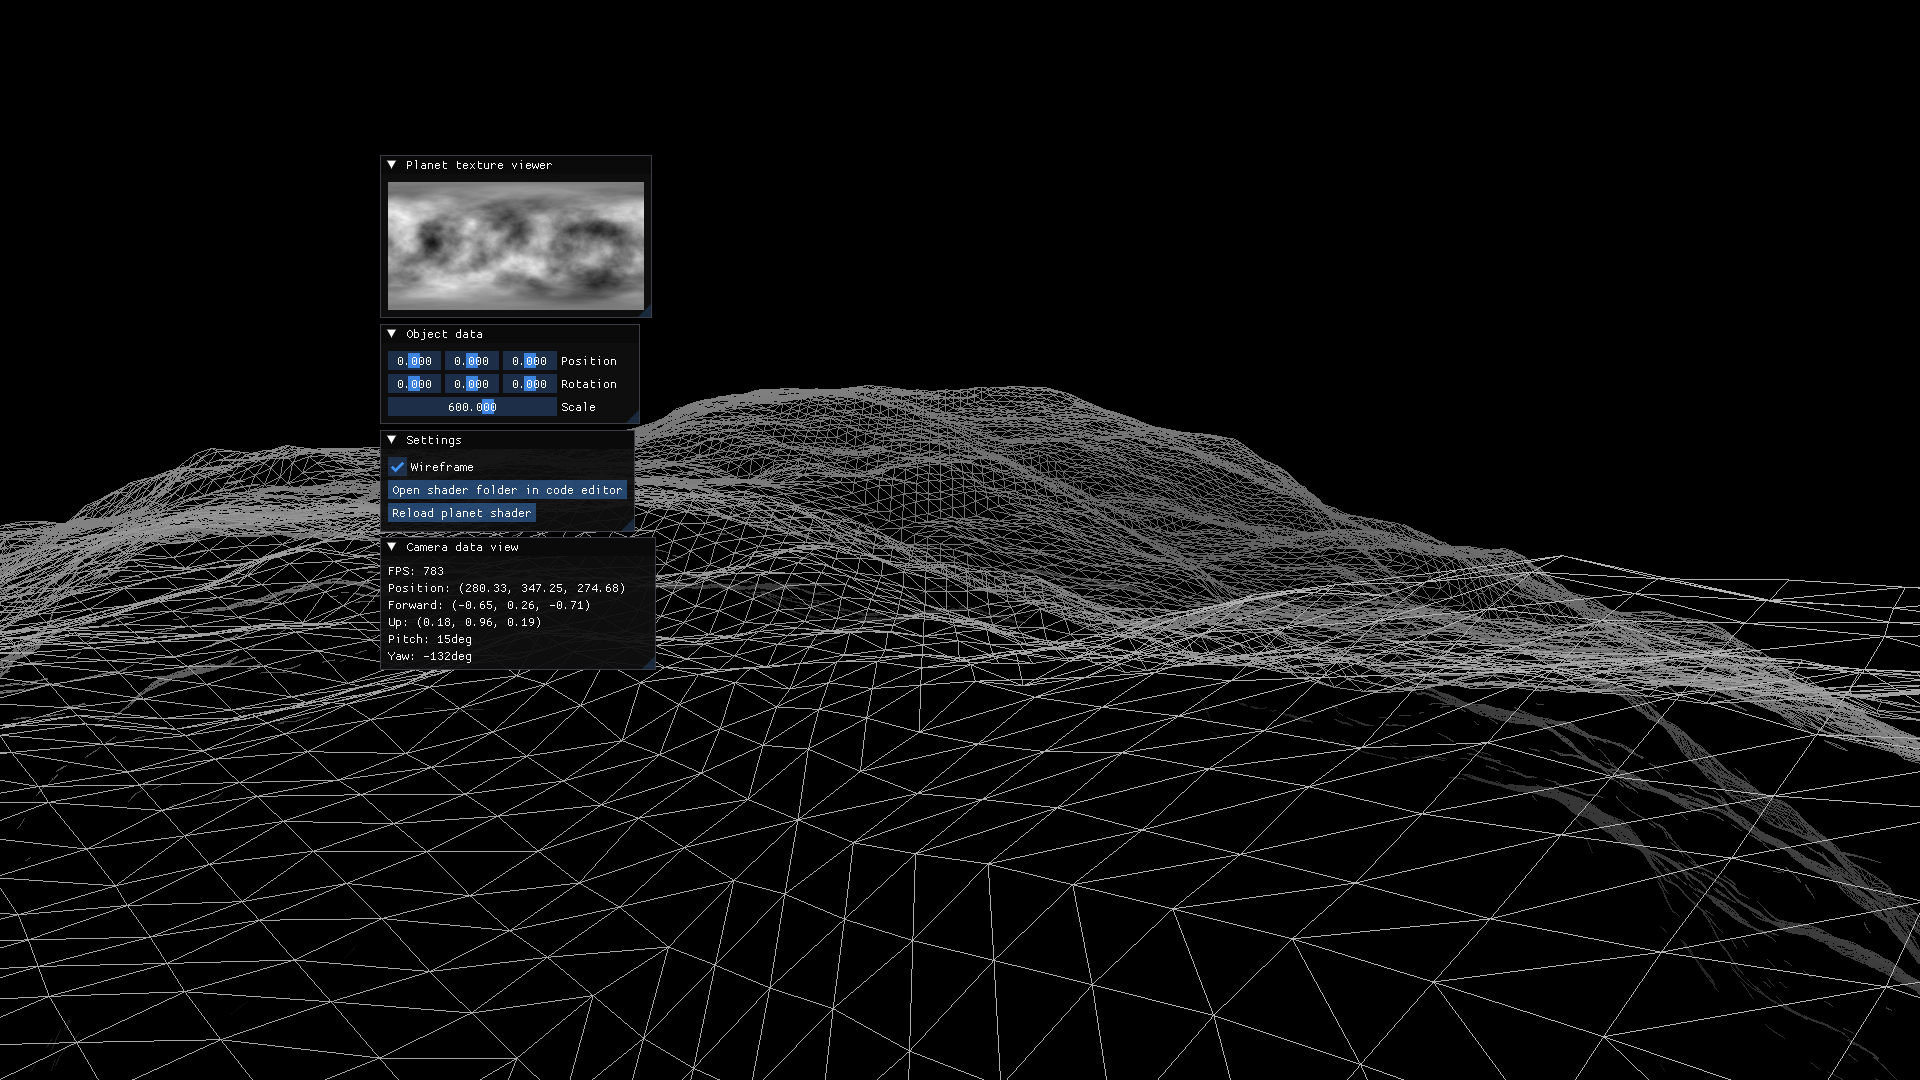
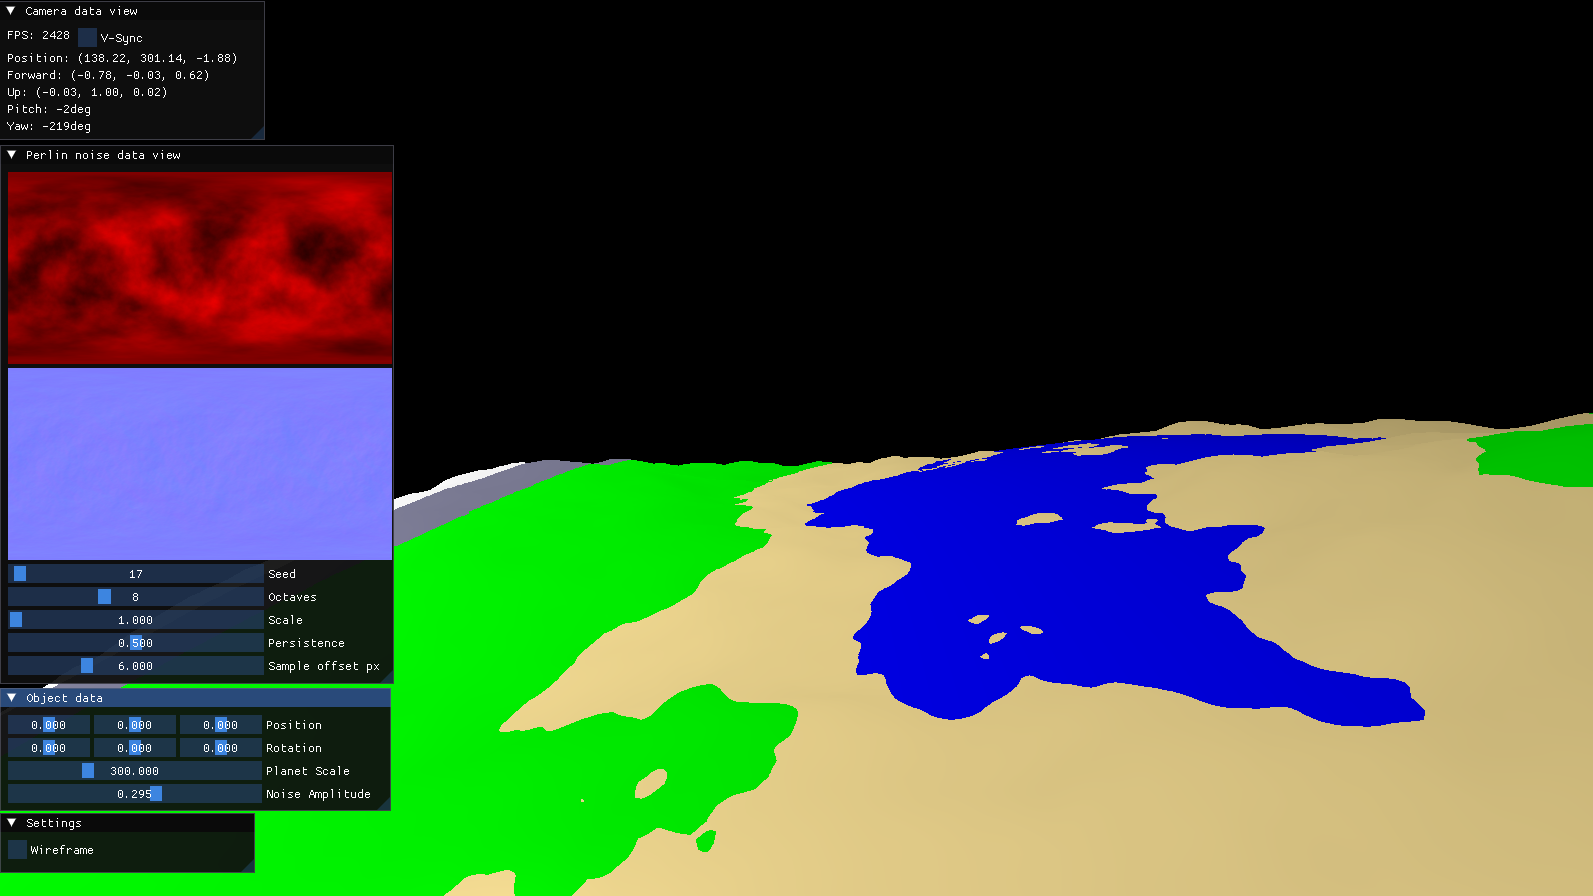
Update readme + correct naming scheme for uniforms

diff --git a/src/noise.cpp b/src/noise.cpp
@@ -1,39 +1,45 @@
 #include "noise.h"
 
 Noise::Noise() {
-	this->seed        = 0;
-	this->scale       = 1.0f;
-	this->octaves     = 6;
-	this->persistence = 0.5f;
-	this->needToDispatch = false;
+	this->seed             = 0;
+	this->scale            = 1.0f;
+	this->octaves          = 8;
+	this->persistence      = 0.5f;
+	this->sampleOffsetSize = 6.0f;
+	this->needToDispatch   = false;
 
 	noiseShaderProgram = CompileComputeShader("shaders/terrainGen.comp");
 
-	seedLocation = glGetUniformLocation(noiseShaderProgram, "seed");
+	seedLocation = glGetUniformLocation(noiseShaderProgram, "u_Seed");
 	if (seedLocation == -1) {
-		std::cerr << "Warning: seed uniform not found!" << std::endl;
+		std::cerr << "Warning: u_Seed uniform not found!" << std::endl;
 	}
 
-	scaleLocation = glGetUniformLocation(noiseShaderProgram, "scale");
+	scaleLocation = glGetUniformLocation(noiseShaderProgram, "u_Scale");
 	if (scaleLocation == -1) {
 		std::cerr << "Warning: scale uniform not found!" << std::endl;
 	}
 
-	octavesLocation = glGetUniformLocation(noiseShaderProgram, "octaves");
+	octavesLocation = glGetUniformLocation(noiseShaderProgram, "u_Octaves");
 	if (octavesLocation == -1) {
 		std::cerr << "Warning: octaves uniform not found!" << std::endl;
 	}
 
-	persistenceLocation = glGetUniformLocation(noiseShaderProgram, "persistence");
+	persistenceLocation = glGetUniformLocation(noiseShaderProgram, "u_Persistence");
 	if (persistenceLocation == -1) {
 		std::cerr << "Warning: persistence uniform not found!" << std::endl;
 	}
 
 	normalShaderProgram = CompileComputeShader("shaders/terrainNormal.comp");
 
-	normal_TerrainHeightmapLocation = glGetUniformLocation(normalShaderProgram, "terrainHeightmap");
+	normal_TerrainHeightmapLocation = glGetUniformLocation(normalShaderProgram, "u_TerrainHeightmap");
 	if (normal_TerrainHeightmapLocation == -1) {
-		std::cerr << "Warning: terrainHeightmap uniform not found!" << std::endl;
+		std::cerr << "Warning: u_TerrainHeightmap uniform not found!" << std::endl;
+	}
+
+	normal_SampleOffsetSizeLocation = glGetUniformLocation(normalShaderProgram, "u_NormalOffsetSize");
+	if (normal_SampleOffsetSizeLocation == -1) {
+		std::cerr << "Warning: u_NormalOffsetSize uniform not found!" << std::endl;
 	}
 
 	CreateTextures();
@@ -92,6 +98,7 @@ void Noise::Dispatch() {
 	glActiveTexture(GL_TEXTURE0);
 	glBindTexture(GL_TEXTURE_2D, noiseTexture);
 	glUniform1i(normal_TerrainHeightmapLocation, 0);
+	glUniform1f(normal_SampleOffsetSizeLocation, sampleOffsetSize);
 
 	glBindFramebuffer(GL_FRAMEBUFFER, fboNormal);
 	glFramebufferTexture2D(GL_FRAMEBUFFER, GL_COLOR_ATTACHMENT0, GL_TEXTURE_2D, normalTexture, 0);
@@ -144,12 +151,13 @@ void Noise::CreateFramebuffers() {
 
 void Noise::DebugDraw() {
 	ImGui::Begin("Perlin noise data view");
-	ImGui::Image((void*)noiseTexture, ImVec2(512, 256));
-	ImGui::Image((void*)normalTexture, ImVec2(512, 256));
+	ImGui::Image((void*)noiseTexture, ImVec2(384, 192));
+	ImGui::Image((void*)normalTexture, ImVec2(384, 192));
 	if (ImGui::SliderInt("Seed", &seed, 0, 1000)) needToDispatch = true;
-	if (ImGui::SliderInt("Octaves", &octaves, 1, 10)) needToDispatch = true;
+	if (ImGui::SliderInt("Octaves", &octaves, 1, 20)) needToDispatch = true;
 	if (ImGui::SliderFloat("Scale", &scale, 1.0f, 10.0f)) needToDispatch = true;
 	if (ImGui::SliderFloat("Persistence", &persistence, 0.0f, 1.0f)) needToDispatch = true;
+	if (ImGui::SliderFloat("Sample offset px", &sampleOffsetSize, 0.1f, 20.0f)) needToDispatch = true;
 	ImGui::End();
 
 	if (needToDispatch) {

diff --git a/src/planet.cpp b/src/planet.cpp
@@ -4,6 +4,7 @@ Planet::Planet(Shader* shader, GLuint noiseTexture, GLuint normalTexture) : Obje
     this->shader = shader;
     this->noiseTexture = noiseTexture;
     this->normalTexture = normalTexture;
+    this->noiseAmplitude = 0.2f;
     planetScale = 300.0f;
 
     std::vector<glm::vec3> vertices;
@@ -33,7 +34,16 @@ Planet::Planet(Shader* shader, GLuint noiseTexture, GLuint normalTexture) : Obje
     if (planetScaleLocation == -1) {
         std::cerr << "Warning: u_PlanetScale uniform not found!" << std::endl;
     }
+
     glUniform1f(planetScaleLocation, planetScale);
+    
+    noiseAmplitudeLocation = glGetUniformLocation(shader->shaderProgram, "u_Amplitude");
+	if (noiseAmplitudeLocation == -1) {
+        std::cerr << "Warning: u_Amplitude uniform not found!" << std::endl;
+	}
+
+    glUniform1f(noiseAmplitudeLocation, noiseAmplitude);
+
 }
 
 void Planet::GeneratePlanet(std::vector<glm::vec3>& vertices) {
@@ -158,5 +168,6 @@ void Planet::DebugDraw() {
     if (ImGui::SliderFloat3("Position", &position.x, -10.0f, 10.0f)) UpdateModelMatrix();
     if (ImGui::SliderFloat3("Rotation", &rotation.x, -180.0f, 180.0f)) UpdateModelMatrix();
     if (ImGui::SliderFloat("Planet Scale", &planetScale, -1.0f, 1000.0f)) glUniform1f(planetScaleLocation, planetScale);
+    if (ImGui::SliderFloat("Noise Amplitude", &noiseAmplitude, 0.0f, 0.5f)) glUniform1f(noiseAmplitudeLocation, noiseAmplitude);
 	ImGui::End();
 }

diff --git a/src/noise.h b/src/noise.h
@@ -19,12 +19,13 @@ public:
 private:
 	int seed, octaves;
 	float scale, persistence;
+	float sampleOffsetSize;
 
 	bool needToDispatch;
 	float lastDispatchTime;
 
 	GLuint noiseShaderProgram, normalShaderProgram, fboNoise, fboNormal;
-	GLuint seedLocation, octavesLocation, scaleLocation, persistenceLocation, normal_TerrainHeightmapLocation;
+	GLuint seedLocation, octavesLocation, scaleLocation, persistenceLocation, normal_TerrainHeightmapLocation, normal_SampleOffsetSizeLocation;
 
 	GLuint CompileComputeShader(const char* source);
 	void CreateTextures();

diff --git a/src/planet.h b/src/planet.h
@@ -20,7 +20,7 @@ public:
 	void DebugDraw() override;
 
 private:
-	GLuint noiseTexture, normalTexture, noiseTextureLocation, normalTextureLocation, planetScaleLocation;
-	float planetScale;
+	GLuint noiseTexture, normalTexture, noiseTextureLocation, normalTextureLocation, planetScaleLocation, noiseAmplitudeLocation;
+	float planetScale, noiseAmplitude;
 	void GeneratePlanet(std::vector<glm::vec3>& vertices);
 };

diff --git a/src/main.cpp b/src/main.cpp
@@ -109,7 +109,6 @@ int main() {
 		ImGui::Begin("Settings");
 		ImGui::Checkbox("Wireframe", &wireframe);
 		if (wireframe) glPolygonMode(GL_FRONT_AND_BACK, GL_LINE); else glPolygonMode(GL_FRONT_AND_BACK, GL_FILL);
-		if (ImGui::Button("Open shader folder in code editor")) { system("code shaders"); system("vscodium shaders"); }
 		ImGui::End();
 
 		// Render objects

diff --git a/src/camera.cpp b/src/camera.cpp
@@ -10,7 +10,7 @@ Camera::Camera(GLFWwindow* window, int width, int height) {
 
 	yaw = -90.0;
 	pitch = -0.0f;
-	speed = 50.0f;
+	speed = 200.0f;
 	sensitivity = 0.2f;
 
 	position = glm::vec3(0.0f, 330.0f, 0.0f);

diff --git a/README.md b/README.md
@@ -1,7 +1,7 @@
 # PlanetRenderer
 This repo is research for my upcoming scholarship project, intending get further understanding and experience in C++ and OpenGL.
 
-The terrain for a planet is generated via dynamic mesh tesselated on the GPU via tesselation shaders, with a heightmap for each vertex to sample its height. Gpu tesselation is a solid choice for my upcoming project as it is extremely performant, but with the cost of a lot of bugs along the way.
+The terrain for a planet is generated via dynamic mesh tesselated on the GPU via tesselation shaders, with a heightmap generated at runtime with compute shaders for each vertex of the planet to sample its height.
 ### Low lod, near planet yet not close enough for little details to matter
 ![no subdivision](images/no%20subdivision.png)
 ### Smooth transition to high lod via tesselation shaders
@@ -18,12 +18,7 @@ As of now, the program features the most simple terrain generation, manipulation
 [glm](https://github.com/icaven/glm) OpenGl mathematics library, used for complex vector and matrix mathematics and easy-to-implement with OpenGL.<br>
 OpenGL is the base framework that allows me to do basically everything I do on the GPU.<br>
 [ImGui](https://github.com/ocornut/imgui) An immediate-mode gui which is for immediate debugging.<br>
-[Perlin Noise](https://github.com/Reputeless/PerlinNoise) Simple library that allows me to generate noise without any hassle.<br>
 All are correctly linked via cmake for both windows with vcpkg and linux with custom package managers.
-
-**Plans**<br>
-I plan for the future to have better tesslation for each use case, i.e. tesselation for approaching the planet is different to the tesselation when on the planet. The plan is to maximise how many fragments each face takes up whilst keeping maximum detail. I also need to find a solution for removing seams across patches in tesselation, as right now I find it too challenging.
-
 ## Building and running
 ### Windows
 On windows, my CMake file has been tested to work with MSVC and [VCPKG](https://github.com/microsoft/vcpkg) (a package manager for windows), installation should be as easy as cloning the repo via MSVC, installing vcpkg to path, and running directly in the MSVC ide, CMake should handle the harder things.
